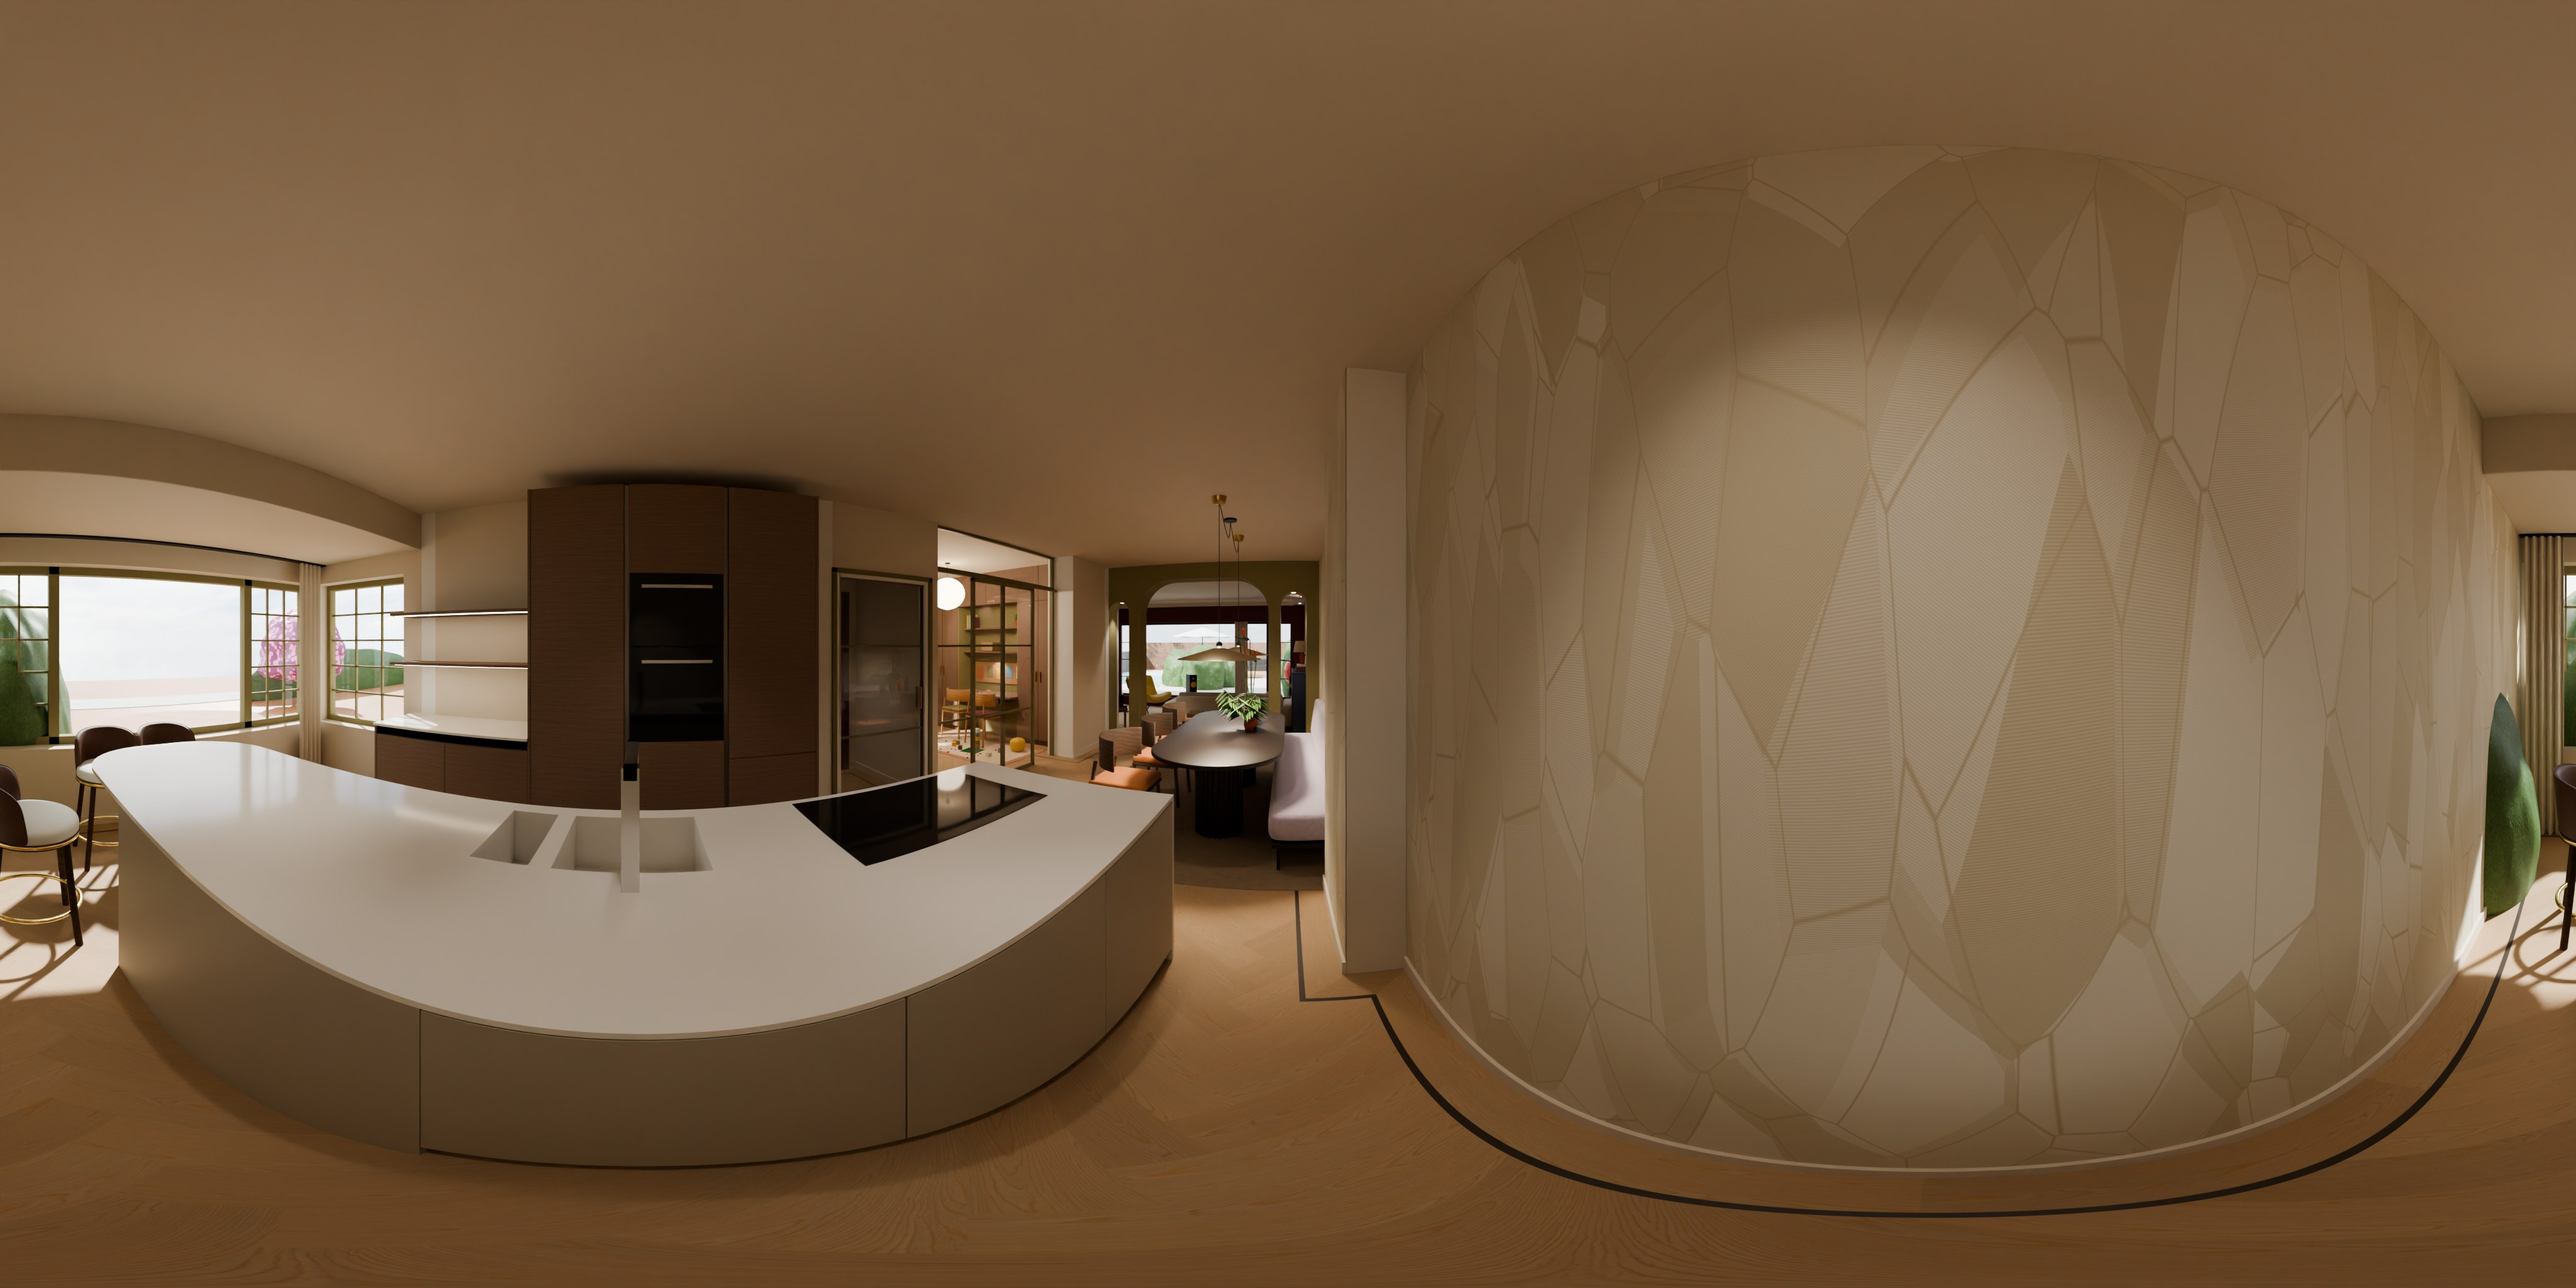
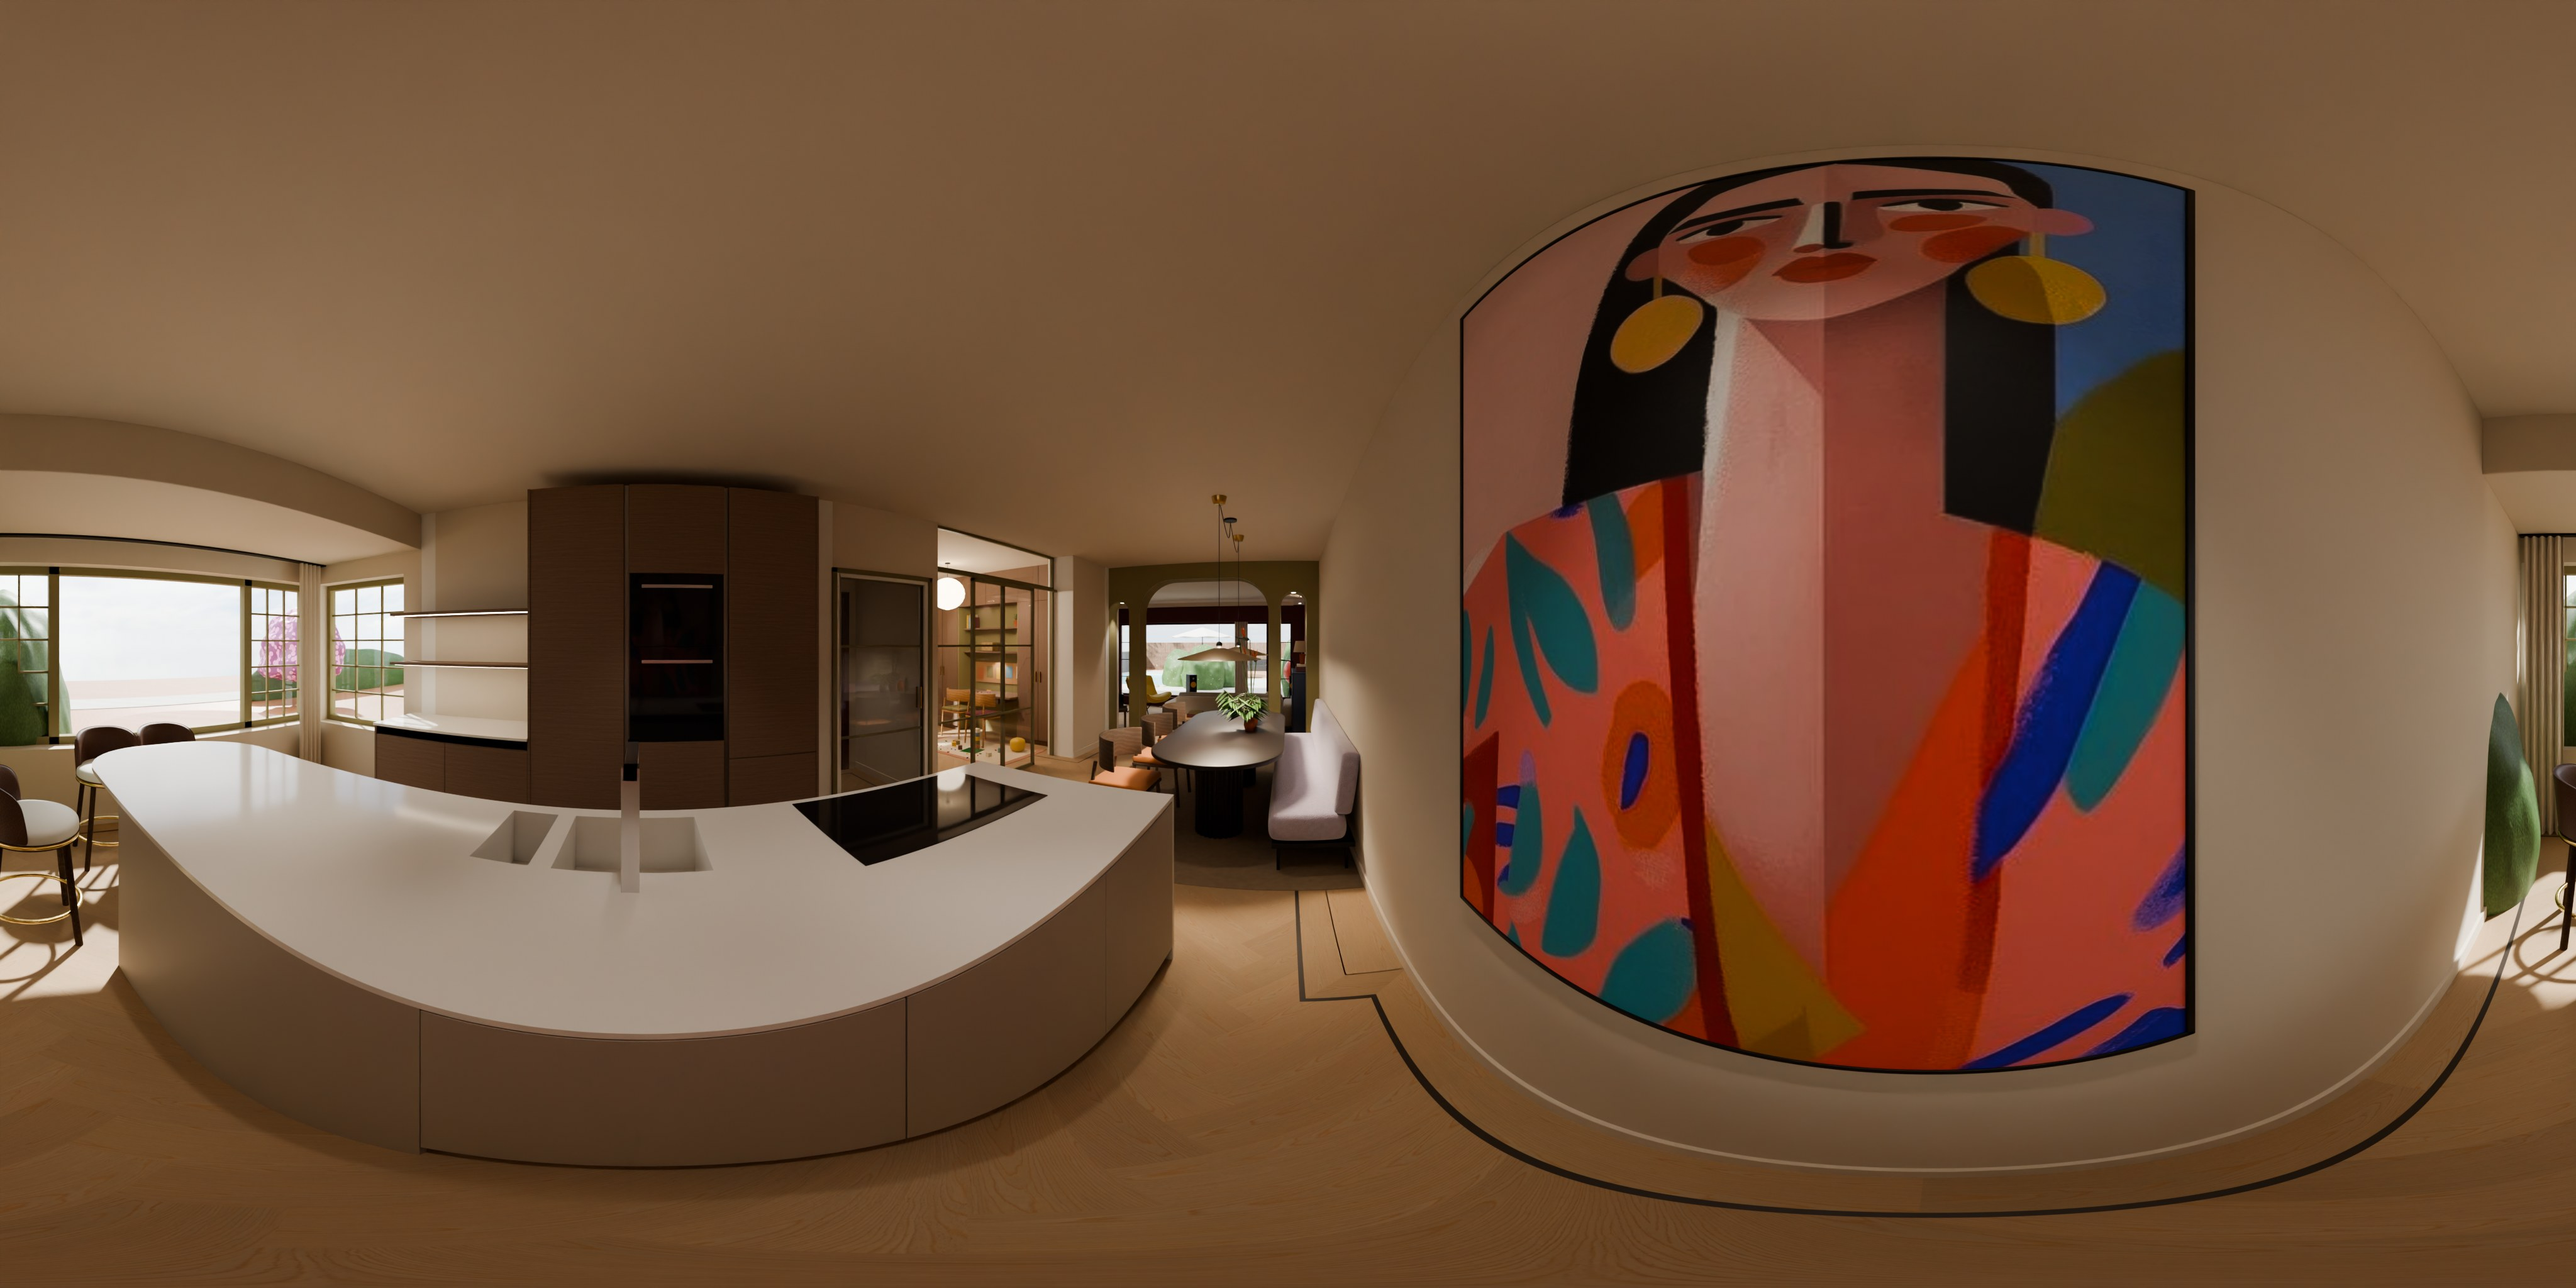
Eetzone/keuken: wand Frosted Sand, schoorsteenkoof weg, schilderij bij de keuken (dag)

Changed region(s): [[0.5, 0.125, 0.875, 0.8438]]

diff --git a/uitleg.html b/uitleg.html
@@ -98,7 +98,7 @@
 <header class="hero"><div class="wrap">
   <div class="kicker">Begane grond · ontwerp</div>
   <h1>Warm, gelaagd en <em>vol kleur</em></h1>
-  <p class="lede">Een rustige zandbasis met uitgesproken accenten: diep Merlot en warm Terra Pink in de woonkamer, mosgroen op de bogen. Het Bounty-behang geeft textuur. Walnoot, eiken en donkerblauw maken het af.</p>
+  <p class="lede">Een rustige zandbasis met uitgesproken accenten: diep Merlot en warm Terra Pink in de woonkamer, mosgroen op de bogen. Een groot, kleurrijk schilderij bij de keuken is de blikvanger. Walnoot, eiken en donkerblauw maken het af.</p>
   <div class="balk" aria-hidden="true"><span style="background:var(--sand)"></span><span style="background:var(--moss)"></span><span style="background:var(--bounty)"></span><span style="background:var(--tulle)"></span><span style="background:var(--merlot)"></span></div>
 </div></header>
 
@@ -134,8 +134,9 @@
       <h3>Muziekhoek: de vleugel als blikvanger</h3>
       <p>De vleugel staat diagonaal in de hoek bij de tv-nis, met de kruk half onder het klavier. Inbouwspots in het plafond lichten de vleugel en de Merlot-wanden uit, zodat de hoek niet donker wordt.</p>
       <h3 style="margin-top:22px">Eethoek: tafelen als in een restaurant</h3>
-      <p>Tegen de Bounty-wand een gestoffeerde eetbank in grijs-lila bouclé, met een ovale tafel in zwartbruin eiken op twee geribde zuilpoten. Aan de andere kant stoelen met een gerookt eiken rugschaal en een zitting van cognac leer. Twee platte, champagnekleurige kegelpendels hangen aan een slingerende kabel en geven warm licht op het blad; een jute kleed en terracotta vazen maken het af.</p>
-      <div class="tags"><span class="tag"><i style="background:var(--sand)"></i>Frosted Sand</span><span class="tag"><i style="background:var(--bounty)"></i>Bounty</span><span class="tag"><i style="background:var(--moss)"></i>Monumental Moss</span></div>
+      <p>De woningscheidende wand van eetzone en keuken is rustig Frosted Sand en loopt vlak door; de koof van het oude schoorsteenkanaal is weg. Achter het kookeiland, net uit het midden richting de eettafel, hangt een groot abstract portret (ArtFrame, 120 × 170 cm, smal zwart frame). Het verbindt keuken en eetgedeelte zonder er strak tegenaan te hangen, en de kleuren keren terug in de terracotta vazen, de cognac stoelen en de mosgroene boog.</p>
+      <p>Tegen die wand een gestoffeerde eetbank in grijs-lila bouclé, met een ovale tafel in zwartbruin eiken op twee geribde zuilpoten. Aan de andere kant stoelen met een gerookt eiken rugschaal en een zitting van cognac leer. Twee platte, champagnekleurige kegelpendels hangen aan een slingerende kabel en geven warm licht op het blad; een jute kleed en terracotta vazen maken het af.</p>
+      <div class="tags"><span class="tag"><i style="background:var(--sand)"></i>Frosted Sand</span><span class="tag"><i style="background:var(--moss)"></i>Monumental Moss</span></div>
     </div>
   </article>
 
@@ -253,7 +254,7 @@
     <ol>
       <li><b>Woonkamer (tuinzijde, 20 cm verdiept).</b> Bank dwars in de kamer, 30 cm van de Terra Pink-wand; Nelson Bench erachter. Vleugel diagonaal in de hoek. Loopruimte langs de vleugel ±84 cm, tussen boog en Nelson Bench ±1,26 m.</li>
       <li><b>Bogen.</b> Drie bogen in Monumental Moss vormen de overgang naar de eetzone; de middelste is de looproute.</li>
-      <li><b>Eetzone.</b> Eetbank (2,60 m) tegen de Bounty-wand, ovale tafel 240 × 100 en drie stoelen; ±1,17 m loopruimte tot de penant.</li>
+      <li><b>Eetzone.</b> Eetbank (2,60 m) tegen de woningscheidende wand, ovale tafel 240 × 100 en drie stoelen; ±1,17 m loopruimte tot de penant.</li>
       <li><b>Speelkamer.</b> Achter de glazen pui; walnoten kastenwand met bureaunis, leesfauteuil in de raamhoek.</li>
       <li><b>Keuken met erker.</b> Kastenwand en eiland; de erker aan de straatzijde.</li>
       <li><b>Hal.</b> Rustig in Frosted Sand, met de trap naar boven. De deur naar de keuken is een stalen glasdeur, in lijn met de pui.</li>
@@ -280,7 +281,7 @@
   <div class="kleuren">
     <div class="kleur"><div class="staal" style="background:var(--sand)"><span>1</span></div><div class="tekst"><b>Frosted Sand</b><small>LAB no. 374 · verf</small><p>De basis: hal, eetzone, keuken, speelkamer, slaapkamer en alle plafonds.</p></div></div>
     <div class="kleur"><div class="staal" style="background:var(--moss);color:#F4EEE4"><span>2</span></div><div class="tekst"><b>Monumental Moss</b><small>LAB no. 265 · verf</small><p>De bogen (beide zijden), kozijnen in keuken en speelkamer, de glazen pui, de glazen keukendeur en de trap.</p></div></div>
-    <div class="kleur"><div class="staal patroon-bounty"><span>3</span></div><div class="tekst"><b>Bounty</b><small>ARTE 24024 · behang</small><p>Woningscheidende wand in de eetzone en keuken.</p></div></div>
+    <div class="kleur"><div class="staal patroon-bounty"><span>3</span></div><div class="tekst"><b>Bounty</b><small>ARTE 24024 · behang</small><p>Vervallen: de woningscheidende wand in eetzone en keuken wordt Frosted Sand, met een groot schilderij bij de keuken.</p></div></div>
     <div class="kleur"><div class="staal" style="background:var(--tulle);color:#F4EEE4"><span>4</span></div><div class="tekst"><b>Terra Pink</b><small>LAB no. 102 · verf</small><p>Tv-wand achter de bank in de woonkamer en de bedwand in de slaapkamer, plint mee in de kleur.</p></div></div>
     <div class="kleur"><div class="staal" style="background:var(--merlot);color:#F4EEE4"><span>5</span></div><div class="tekst"><b>Merlot Mania</b><small>LAB no. 123 · verf</small><p>Woonkamer en toilet, inclusief kozijnen, plinten en deuren.</p></div></div>
   </div>
@@ -307,7 +308,7 @@
       <tr><td>Woonkamer</td><td>Vloerlamp Kees (zwart)</td><td>Naast de rechterarmleuning, leeslicht over de bank</td></tr>
       <tr><td>Woonkamer</td><td>Wollen kleed, grof gevlochten grijs</td><td>290 × 200, deels onder de bank</td></tr>
       <tr><td>Woonkamer</td><td>Kawai-vleugel</td><td>Diagonaal in de hoek; inbouwspots in het plafond</td></tr>
-      <tr><td>Eetzone</td><td>Eetbank, grijs-lila bouclé</td><td>2,60 m tegen de Bounty-wand, op dun zwart onderstel</td></tr>
+      <tr><td>Eetzone</td><td>Eetbank, grijs-lila bouclé</td><td>2,60 m tegen de woningscheidende wand, op dun zwart onderstel</td></tr>
       <tr><td>Eetzone</td><td>Ovale tafel 240 × 100, zwartbruin eiken</td><td>Twee geribde zuilpoten; drie stoelen met cognac leren zitting</td></tr>
       <tr><td>Eetzone</td><td>2 kegelpendels Ø65, champagne</td><td>Messing plafondcups, slingerkabel vanuit één rozet, 68 cm boven het blad</td></tr>
       <tr><td>Eetzone</td><td>Jute kleed 250 × 300</td><td>Onder tafel, stoelen en bank</td></tr>
